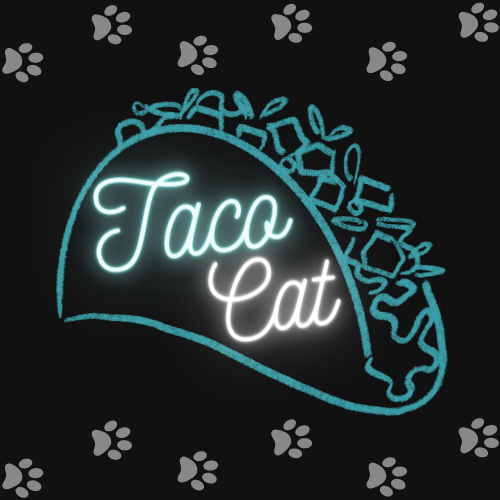
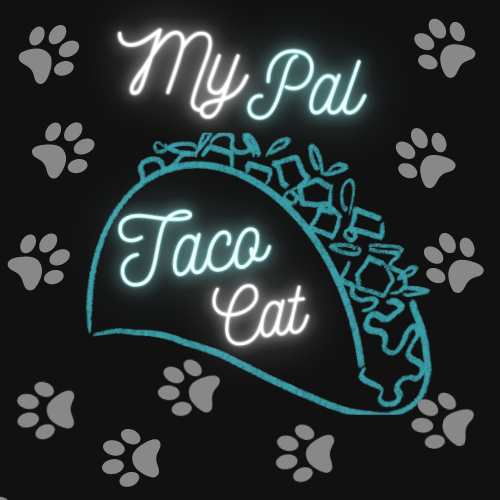
added 4 app carousel imgs & alt txt,  app alt txt, my pal taco cat img

diff --git a/index.html b/index.html
@@ -34,7 +34,7 @@
         <div class="container-xxl">
             <a inert  class="navbar-brand mx-md-1 ps-md-2" href="#"> 
                 <img src="/assets/HC ACN Logo/HC Logo Files/For Web/svg/ACN Color logo - no background.svg"
-                    height="50" width="275">
+                    height="50" width="275" alt="Angel Corral Nunez logo image">
             </a>
             <!-- custom mobile hamburger menu button -->
             <button class="navbar-toggler me-md-4 p-2" type="button" data-bs-toggle="collapse"
@@ -104,10 +104,10 @@
             <div class="row g-3 m-auto">
                 <div class="col-12 col-lg-4 mb-3">
                     <picture id="prof-pic-angel">
-                        <source media="(min-width: 992px)" srcset="/assets/Angel Corral Nunez/992x1065pxAngel_snowpic.jpg" />
-                        <source media="(min-width: 768px)" srcset="/assets/Angel Corral Nunez/768x825pxAngel_snowpic.jpg" />
-                        <source media="(min-width: 576px)" srcset="/assets/Angel Corral Nunez/567x618pxAngel_snowpic.jpg" />
-                        <img src="/assets/Angel Corral Nunez/600x767pxAngel_snowpic.jpg" class="img-fluid profile-pic">
+                        <source media="(min-width: 992px)" srcset="/assets/Angel Corral Nunez/992x1065pxAngel_snowpic.jpg" alt="Photo of Angel Corral Nunez" />
+                        <source media="(min-width: 768px)" srcset="/assets/Angel Corral Nunez/768x825pxAngel_snowpic.jpg" alt="Photo of Angel Corral Nunez" />
+                        <source media="(min-width: 576px)" srcset="/assets/Angel Corral Nunez/567x618pxAngel_snowpic.jpg" alt="Photo of Angel Corral Nunez" />
+                        <img src="/assets/Angel Corral Nunez/600x767pxAngel_snowpic.jpg" class="img-fluid profile-pic" alt="Photo of Angel Corral Nunez">
                     </picture>
                 </div>
                 <div class="col-12 col-lg-8 px-md-5">
@@ -307,7 +307,7 @@
             <div id="a11y-row">
                 <div class="col card-red-borders m-3 p-2 text-center">
                     <img id="trusted-tester" class="mx-auto mt-4 mb-1" 
-                    src="/assets/Accessibility Icon PNGs/DHS Trusted Tester Logo NO BG.png" width="144" height="144">
+                    src="/assets/Accessibility Icon PNGs/DHS Trusted Tester Logo NO BG.png" width="144" height="144" alt="Department of Homeland Security Trusted Tester Logo">
                     <p class="a11y-cols my-1 px-1 text-start" style="font-size: 1.25rem;">
                         Certified as a Department of Homeland Security Office of Accessible 
                         Systems & Technology Trusted Tester for accessibility compliance and 
@@ -315,7 +315,7 @@
                     </p>
                 </div>
                 <div class="col card-red-borders m-3 p-2 text-center">
-                    <img id="w3c-icon" class="mx-auto mt-4 mb-1" src="/assets/Accessibility Icon PNGs/W3C-WCAG-2.0.png" width="160" height="144">
+                    <img id="w3c-icon" class="mx-auto mt-4 mb-1" src="/assets/Accessibility Icon PNGs/W3C-WCAG-2.0.png" width="160" height="144" alt="Web Content Accessibility Guidelines Logo">
                     <p class="a11y-cols my-1 px-1 text-start" style="font-size: 1.25rem;"> 
                         Knowledgeable in Web Content Accessibility Guidelines WCAG 2.0 and 
                         WCAG 2.1, a single shared standard for web content accessibility 
@@ -324,14 +324,14 @@
                     </p>
                 </div>
                 <div class="col card-red-borders m-3 p-2 text-center">
-                    <img id="a11y-docs" class="mx-auto mt-1 mb-0" src="/assets/Accessibility Icon PNGs/DHS Accessible Documents Logo NO BG.png" width="168" height="168">
+                    <img id="a11y-docs" class="mx-auto mt-1 mb-0" src="/assets/Accessibility Icon PNGs/DHS Accessible Documents Logo NO BG.png" width="168" height="168" alt="Department of Homeland Security Document Tester Logo">
                     <p class="a11y-cols my-1 px-1 text-start" style="font-size: 1.25rem;">
                         Certified by the Dept. of Homeland Security in authoring, testing, 
                         and remediation of Microsoft Office and Adobe PDF documents, and
                         endorsed by the US Federal CIO Council Accessibility Committee.</p>
                 </div> 
                 <div class="col card-red-borders m-3 p-2 text-center">
-                    <img id="icon-508" class="mx-auto mt-4 mb-1" src="/assets/Accessibility Icon PNGs/508-Icon-Blue-NO-BG.png" width="144" height="144">
+                    <img id="icon-508" class="mx-auto mt-4 mb-1" src="/assets/Accessibility Icon PNGs/508-Icon-Blue-NO-BG.png" width="144" height="144" alt="Section 508 Standards of the Rehabilitation Act Logo">
                     <p class="a11y-cols my-1 px-1 text-start" style="font-size: 1.25rem;">
                         Knowledgeable in testing methods and the tools to test websites, 
                         software, and electronic documents for conformance with the U.S. 
@@ -348,32 +348,32 @@
                 Check out some of my <a aria-describedby="skip-to-projects-sec" class="proj-link-red enlarge-link fw-semibold" href="#projects">projects</a> below! </a></p>
             <div class="row row-cols-1 row-cols-md-3">
                 <div class="col card-red-borders mx-auto my-3 px-2 pb-3 pt-4 w-75 text-center toolbox-row-cols">
-                    <i id="html-icon" class="devicon-html5-plain colored" style="font-size: 4rem;"></i>
-                    <img id="aria-icon" src="/assets/Accessibility Icon PNGs/ARIA-Icon.png" style="width: 3.75rem;">
+                    <i id="html-icon" class="devicon-html5-plain colored" style="font-size: 4rem;" alt="HTML 5 Programming Language Logo"></i>
+                    <img id="aria-icon" src="/assets/Accessibility Icon PNGs/ARIA-Icon.png" style="width: 3.75rem;" alt="Web Accessibility ARIA Technology Logo">
                     <p class="tool-par-margin-lg">I use HTML and ARIA daily to build accessible full-stack web applications for all and am constantly growing my knowledge base in accessibiltiy technologies and tools.</p>
                 </div>
                 <div class="col card-red-borders mx-auto my-3 px-2 pb-3 pt-4 w-75 text-center toolbox-row-cols">
-                    <i id="bootstrap-icon" class="devicon-bootstrap-plain colored" style="font-size: 4rem;"></i>
-                    <i id="css-icon" class="devicon-css3-plain colored" style="font-size: 4rem;"></i>
-                    <i id="sass-icon" class="devicon-sass-plain colored" style="font-size: 4rem;"></i>
+                    <i id="bootstrap-icon" class="devicon-bootstrap-plain colored" style="font-size: 4rem;" alt="Bootstrap Programming Framework Logo"></i>
+                    <i id="css-icon" class="devicon-css3-plain colored" style="font-size: 4rem;" alt="CSS 3 Programming Language Logo"></i>
+                    <i id="sass-icon" class="devicon-sass-plain colored" style="font-size: 4rem;" alt="SASS Programming Framework Logo"></i>
                     <p class="tool-par-margin-sm" >I use CSS, SASS, and Bootstrap to build beautiful and accessible UIs and am always researching and learning new front end development technologies and frameworks!</p>
                 </div>
                 <div class="col card-red-borders mx-auto my-3 px-2 pb-3 pt-4 w-75 text-center toolbox-row-cols">
-                    <i id="js-icon" class="devicon-javascript-plain colored" style="font-size: 4rem;"></i>
+                    <i id="js-icon" class="devicon-javascript-plain colored" style="font-size: 4rem;" alt="Javascript Programming Language Logo"></i>
                     <p class="tool-par-margin-lg">I use Vanilla JS to build full-stack web applications and enable custom accessibility feature functionality.
                         You can see the apps where I've utilized JS in my <a aria-describedby="skip-to-projects-sec" class="proj-link-red enlarge-link fw-semibold" href="#projects">projects</a>!</p>
                 </div>
                 <div class="col card-red-borders mx-auto my-3 px-2 pb-3 pt-4 w-75 text-center toolbox-row-cols">
-                    <i id="vscode-icon" class="devicon-vscode-plain colored" style="font-size: 4rem;"></i>
+                    <i id="vscode-icon" class="devicon-vscode-plain colored" style="font-size: 4rem;" alt="V-S-Code Program Logo"></i>
                     <p class="tool-par-margin-lg">I use VS Code daily to compose and format my code when building out all of my projects.</p>
                 </div>
                 <div class="col card-red-borders mx-auto my-3 px-2 pb-3 pt-4 w-75 text-center toolbox-row-cols">
-                    <i id="git-icon" class="devicon-git-plain colored" style="font-size: 4rem;"></i>
-                    <i id="github-icon" class="devicon-github-original-wordmark colored" style="font-size: 4rem;"></i>
+                    <i id="git-icon" class="devicon-git-plain colored" style="font-size: 4rem;" alt="Git Program Logo"></i>
+                    <i id="github-icon" class="devicon-github-original-wordmark colored" style="font-size: 4rem;" alt="Github Repository Database Logo"></i>
                     <p class="tool-par-margin-lg">I Git and Github daily to ensure my codebase is protected, my workflow is effective, and to enhance productivity.</p>
                 </div>
                 <div class="col card-red-borders mx-auto my-3 px-2 pb-3 pt-4 w-75 text-center toolbox-row-cols">
-                    <i id="gimp-icon" class="devicon-gimp-plain colored" style="font-size: 4rem;"></i>
+                    <i id="gimp-icon" class="devicon-gimp-plain colored" style="font-size: 4rem;" alt="Gimp Program Logo"></i>
                     <p class="tool-par-margin-sm">Gimp is my preferred Photoshop alternative. I use Gimp's sophisticated tools to edit the images I use in all of my projects.</p>
                 </div>
             </div>
@@ -398,8 +398,8 @@
                     <div class="hc-wrapper">
                         <div class="hc-card border border-light border-4">
                             <picture>
-                                <source srcset="assets/Display A Hundred/Display A Hundred.png" media="(min-width: 992px)" />
-                                <img src="assets/Display A Hundred/Display A Hundred.png">
+                                <source srcset="assets/Display A Hundred/Display A Hundred.png" media="(min-width: 992px)" alt="Display A Hundred App Logo"/>
+                                <img src="assets/Display A Hundred/Display A Hundred.png" alt="Display A Hundred App Logo">
                             </picture>
                             <div tabindex="0" class="hc-content">
                                 <h4>Display a Hundred</h4>
@@ -419,11 +419,11 @@
                     <div class="hc-wrapper">
                         <div class="hc-card border border-light border-4">
                             <picture>
-                                <source srcset="assets/Taco Cat/taco.png" media="(min-width: 992px)" />
-                                <img src="assets/Taco Cat/taco.png">
+                                <source srcset="assets/Taco Cat/taco.png" media="(min-width: 992px)" alt="My Pal Taco Cat App Logo"/>
+                                <img src="assets/Taco Cat/taco.png" alt="My Pal Taco Cat App Logo">
                             </picture>
                             <div class="hc-content">
-                                <h4>Taco Cat</h4>
+                                <h4>My Pal Taco Cat</h4>
                                 <p>
                                     is a fun App that uses Javascript logic to 
                                     check if a phrase entered, like 'Taco Cat,' is a palindrome 
@@ -441,8 +441,8 @@
                     <div class="hc-wrapper">
                         <div class="hc-card border border-light border-4">
                             <picture>
-                                <source srcset="assets/Reverse Rewind/Reverse.png" media="(min-width: 992px)" />
-                                <img src="assets/Reverse Rewind/Reverse.png">
+                                <source srcset="assets/Reverse Rewind/Reverse.png" media="(min-width: 992px)" alt="Reverse Rewind App Logo"/>
+                                <img src="assets/Reverse Rewind/Reverse.png" alt="Reverse Rewind App Logo">
                             </picture>
                             <div class="hc-content">
                                 <h4>Reverse, Rewind</h4>
@@ -464,8 +464,9 @@
                     <div class="hc-wrapper">
                         <div class="hc-card border border-light border-4">
                             <picture>
-                                <source srcset="assets/Soda Pop/Soda-Pop.png" media="(min-width: 992px)" />
-                                <img src="assets/Soda Pop/Soda-Pop.png">
+                                <source srcset="assets/Soda Pop/Soda-Pop.png" media="(min-width: 992px)" alt="Soda Pop App Logo"/>
+                                <source srcset="assets/Soda Pop/Soda-Pop.png" media="(min-width: 992px)" alt="Soda Pop App Logo"/>
+                                <img src="assets/Soda Pop/Soda-Pop.png" >
                             </picture>
                             <div class="hc-content">
                                 <h4>Soda Pop</h4>
@@ -592,7 +593,7 @@
     </div>
     <div class="footer-main py-3 row row-cols-1 row-cols-md-3 gy-3 text-center align-items-center">
         <div class="col">
-            <img src="/assets/HC ACN Logo/HC Logo Files/For Web/svg/ACN Color logo - no background.svg" height="50" width="350">
+            <img src="/assets/HC ACN Logo/HC Logo Files/For Web/svg/ACN Color logo - no background.svg" height="50" width="350" alt="Angel Corral Nunez logo image">
         </div>
         <div id="socials" class="col text-md-center">
             <a class="socialicons" aria-label="Linkedin" aria-describedby="social-new-win" 
@@ -639,19 +640,20 @@
                                 </div>
                                 <div class="carousel-inner">
                                     <div class="carousel-item active">
-                                        <img src="/assets/logos/BugTracker_600.jpg" class="d-block w-100" alt="...">
+                                        <img src="/assets/Display A Hundred/Display A Hundred.png" class="d-block w-100"
+                                        alt="Display A Hundred Logo">
                                     </div>
                                     <div class="carousel-item">
-                                        <img src="/assets/screenshots/BugTrackerScreen1.jpg" class="d-block w-100"
-                                            alt="...">
+                                        <img src="/assets/Display A Hundred/Display A Hundred Home.png" class="d-block w-100" 
+                                        alt="Screenshot of Display A Hundred Home Page">
                                     </div>
                                     <div class="carousel-item">
-                                        <img src="/assets/screenshots/BugTrackerScreen2.jpg" class="d-block w-100"
-                                            alt="...">
+                                        <img src="/assets/Display A Hundred/Display A Hundred App.png" class="d-block w-100"
+                                            alt="Screenshot of Display A Hundred App Page">
                                     </div>
                                     <div class="carousel-item">
-                                        <img src="/assets/screenshots/BugTrackerScreen3.jpg" class="d-block w-100"
-                                            alt="...">
+                                        <img src="/assets/Display A Hundred/Display A Hundred Code.png" class="d-block w-100"
+                                        alt="Screenshot of Display A Hundred Code Page">
                                     </div>
                                 </div>
                                 <button class="carousel-control-prev" type="button"
@@ -736,19 +738,20 @@
                                 </div>
                                 <div class="carousel-inner">
                                     <div class="carousel-item active">
-                                        <img src="/assets/logos/ExpenseTracker_600.jpg" class="d-block w-100" alt="...">
+                                        <img src="/assets/Taco Cat/taco.png" class="d-block w-100" 
+                                        alt="My Pal Taco Cat App Logo">
                                     </div>
                                     <div class="carousel-item">
-                                        <img src="/assets/screenshots/BugTrackerScreen1.jpg" class="d-block w-100"
-                                            alt="...">
+                                        <img src="/assets/Taco Cat/Taco Cat Home.png" class="d-block w-100"
+                                        alt="Screenshot of My Pal Taco Cat Home Page">
                                     </div>
                                     <div class="carousel-item">
-                                        <img src="/assets/screenshots/BugTrackerScreen2.jpg" class="d-block w-100"
-                                            alt="...">
+                                        <img src="/assets/Taco Cat/Taco Cat App.png" class="d-block w-100"
+                                        alt="Screenshot of My Pal Taco Cat App Page">
                                     </div>
                                     <div class="carousel-item">
-                                        <img src="/assets/screenshots/BugTrackerScreen3.jpg" class="d-block w-100"
-                                            alt="...">
+                                        <img src="/assets/Taco Cat/Taco Cat Code.png" class="d-block w-100"
+                                        alt="Screenshot of My Pal Taco Cat Code Page">
                                     </div>
                                 </div>
                                 <button class="carousel-control-prev" type="button"
@@ -828,19 +831,20 @@
                                 </div>
                                 <div class="carousel-inner">
                                     <div class="carousel-item active">
-                                        <img src="/assets/logos/Blog_600.jpg" class="d-block w-100" alt="...">
+                                        <img src="/assets/Reverse Rewind/Reverse.png" class="d-block w-100" 
+                                        alt="Reverse Rewind App Logo">
                                     </div>
                                     <div class="carousel-item">
-                                        <img src="/assets/screenshots/BugTrackerScreen1.jpg" class="d-block w-100"
-                                            alt="...">
+                                        <img src="/assets/Reverse Rewind/Rev Rew Home.png" class="d-block w-100"
+                                        alt="Screenshot of Reverse Rewind Home Page">
                                     </div>
                                     <div class="carousel-item">
-                                        <img src="/assets/screenshots/BugTrackerScreen2.jpg" class="d-block w-100"
-                                            alt="...">
+                                        <img src="/assets/Reverse Rewind/Rev Rew App.png" class="d-block w-100"
+                                        alt="Screenshot of Reverse Rewind App Page">
                                     </div>
                                     <div class="carousel-item">
-                                        <img src="/assets/screenshots/BugTrackerScreen3.jpg" class="d-block w-100"
-                                            alt="...">
+                                        <img src="/assets/Reverse Rewind/Rev Rew Code.png" class="d-block w-100"
+                                        alt="Screenshot of Reverse Rewind Code Page">
                                     </div>
                                 </div>
                                 <button class="carousel-control-prev" type="button"
@@ -920,19 +924,20 @@
                                 </div>
                                 <div class="carousel-inner">
                                     <div class="carousel-item active">
-                                        <img src="/assets/logos/BugTracker_600.jpg" class="d-block w-100" alt="...">
+                                        <img src="/assets/Soda Pop/Soda-Pop.png" class="d-block w-100" 
+                                        alt="Soda Pop App Logo">
                                     </div>
                                     <div class="carousel-item">
-                                        <img src="/assets/screenshots/BugTrackerScreen1.jpg" class="d-block w-100"
-                                            alt="...">
+                                        <img src="/assets/Soda Pop/Soda Pop Home.png" class="d-block w-100"
+                                        alt="Screenshot of Soda Pop Home Page">
                                     </div>
                                     <div class="carousel-item">
-                                        <img src="/assets/screenshots/BugTrackerScreen2.jpg" class="d-block w-100"
-                                            alt="...">
+                                        <img src="/assets/Soda Pop/Soda Pop App.png" class="d-block w-100"
+                                        alt="Screenshot of Soda Pop App Page">
                                     </div>
                                     <div class="carousel-item">
-                                        <img src="/assets/screenshots/BugTrackerScreen3.jpg" class="d-block w-100"
-                                            alt="...">
+                                        <img src="/assets/Soda Pop/Soda Pop Code.png" class="d-block w-100"
+                                        alt="Screenshot of Soda Pop Code Page">
                                     </div>
                                 </div>
                                 <button class="carousel-control-prev" type="button"
